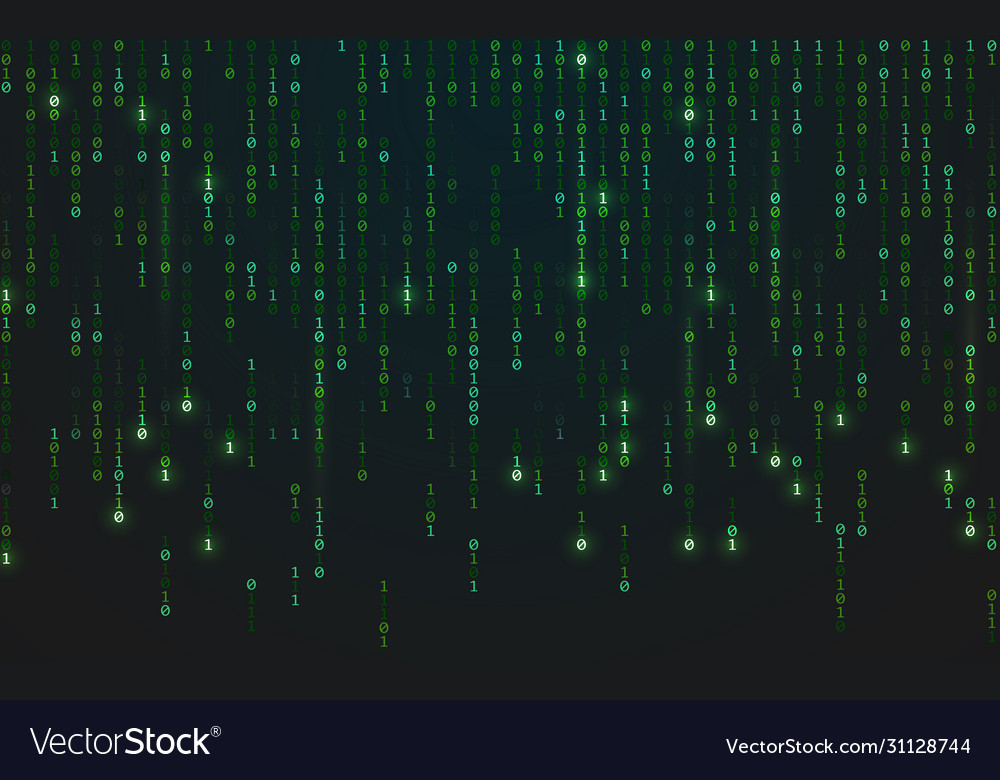
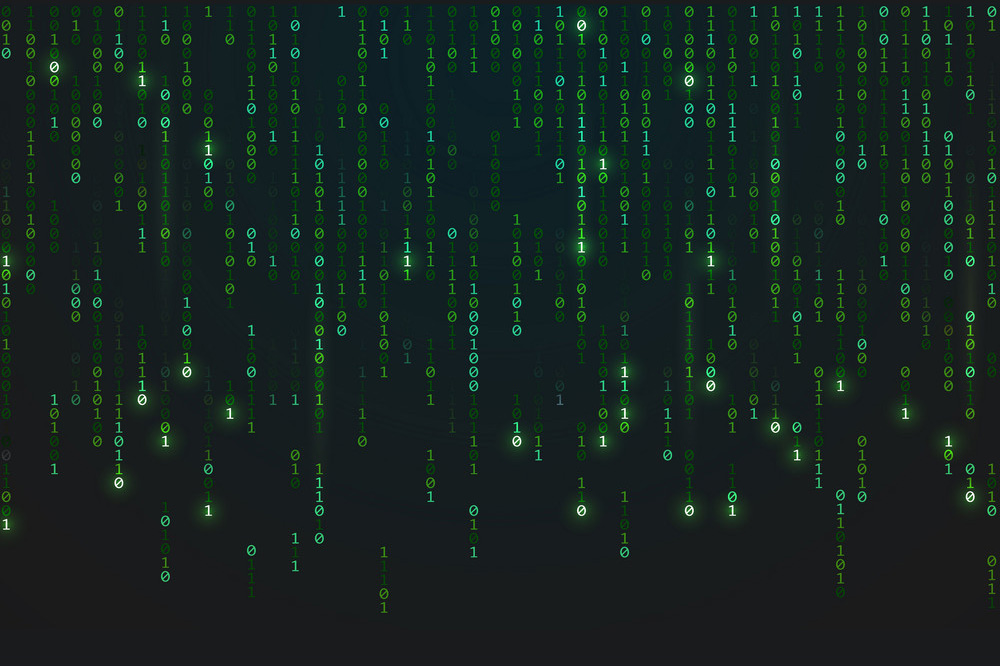
added background image to portfolio

diff --git a/src/components/About/index.js b/src/components/About/index.js
@@ -1,46 +1,48 @@
 import React from 'react';
+import '../../assets/css/About.css';
 import 'bootstrap/dist/css/bootstrap.min.css';
 
 function About() {
   return (
-    <section className='container'>
-      <h2 className='top-title'>About Me</h2>
+    <section className="container">
+      <h2 className="top-title">About Me</h2>
       <hr></hr>
-      <div>
+
+      <figure>
         <img
-          className='mb-5'
-          src='../../assets/images/portfolioImages/professional-picture.png'
-          alt='Professional Headshot'
-          width='150'
-          height='70'></img>
-        <h3 className='about-intro'>Hello, I'm Nicholas Nolen</h3>
-        <p>
-          I am a Full Stack Web Developer leveraging a business background to
-          build sites oriented towards mobile responsiveness.
-        </p>
-        <p>
-          {' '}
-          I earned a certificate in Full-Stack Web Development from the
-          University of Texas at Austin’s Web Development Boot Camp with newly
-          developed skills in HTML, CSS, JavaScript, and React.js.
-        </p>
-        <p>
-          I am known for using time management, attention to detail and strong
-          written and verbal communication to complete even the most complex of
-          tasks.
-        </p>
-        <p>
-          I applied aspects of front-end development in a recent project. I
-          worked on a team of five to develop an application that allows a
-          travel enthusiast to create an account to log past, upcoming, and
-          bucket-list trips.
-        </p>
-        <p>
-          I enjoy working with a fast-paced, quality-driven team to provide
-          creative solutions to complex problems and exceed project
-          expectations.
-        </p>
-      </div>
+          className="mb-5"
+          src="../../assets/images/portfolioImages/professional-picture.png"
+          alt="Professional Headshot"
+          width="150"
+          height="70"></img>
+      </figure>
+
+      <h3 className="about-intro">Hello, I'm Nicholas Nolen</h3>
+      <p>
+        I am a Full Stack Web Developer leveraging a business background to
+        build sites oriented towards mobile responsiveness.
+      </p>
+      <p>
+        {' '}
+        I earned a certificate in Full-Stack Web Development from the University
+        of Texas at Austin’s Web Development Boot Camp with newly developed
+        skills in HTML, CSS, JavaScript, and React.js.
+      </p>
+      <p>
+        I am known for using time management, attention to detail and strong
+        written and verbal communication to complete even the most complex of
+        tasks.
+      </p>
+      <p>
+        I applied aspects of front-end development in a recent project. I worked
+        on a team of five to develop an application that allows a travel
+        enthusiast to create an account to log past, upcoming, and bucket-list
+        trips.
+      </p>
+      <p>
+        I enjoy working with a fast-paced, quality-driven team to provide
+        creative solutions to complex problems and exceed project expectations.
+      </p>
     </section>
   );
 }

diff --git a/src/components/Header/index.js b/src/components/Header/index.js
@@ -1,5 +1,6 @@
 import React, { useState } from 'react';
-import { Routes, Route, HashRouter } from 'react-router-dom';
+import { Route, Redirect, HashRouter } from 'react-router-dom';
+
 import Project from '../Portfolio';
 import About from '../About';
 import Navigation from '../Navigation';
@@ -42,13 +43,11 @@ function Header() {
         </nav>
 
         <div>
-          <Routes>
-            <Route exact path='/' element={<About />} />
-            <Route path='/about' element={<About />}></Route>
-            <Route path='/project' element={<Project />}></Route>
-            <Route path='/contact' element={<Contact />}></Route>
-            <Route path='/resume' element={<Resume />}></Route>
-          </Routes>
+          <Route exact path="/" render={() => <Redirect to="/about" />} />
+          <Route path="/about" element={<About />}></Route>
+          <Route path="/project" element={<Project />}></Route>
+          <Route path="/contact" element={<Contact />}></Route>
+          <Route path="/resume" element={<Resume />}></Route>
         </div>
       </HashRouter>
       <div>

diff --git a/src/assets/css/About.css b/src/assets/css/About.css
@@ -69,17 +69,10 @@ code {
   color: #61dafb;
 }
 
-a {
-  text-decoration: none;
+.hero {
+  background: linear-gradient(rgba(0, 0, 0, 0.5), rgba(0, 0, 0, 0.5)), url(../images/portfolioImages/bg-img.jpg);
+  background-size: cover;
+  background-position: center;
 }
 
-.navLink {
-  color: #ffffff;
-  text-decoration: none;
-}
-
-.navActive {
-  color: #f3a847;
-}
-
-/*# sourceMappingURL=Navigation.css.map */
+/*# sourceMappingURL=About.css.map */

diff --git a/src/assets/css/App.css b/src/assets/css/App.css
@@ -1,7 +1,11 @@
 /* PRIMARY COLORS */
 /* BACKGROUND COLORS */
+/* IMAGE FOLDER PATH */
+/* FADE IMAGE */
 /* PRIMARY COLORS */
 /* BACKGROUND COLORS */
+/* IMAGE FOLDER PATH */
+/* FADE IMAGE */
 /* Universal Selectors */
 * {
   margin: 0;

diff --git a/src/assets/sass/variables.sass b/src/assets/sass/variables.sass
@@ -9,3 +9,9 @@ $orange: #f3a847
 // App.sass
 $blue-gray: #282c34
 
+/* IMAGE FOLDER PATH */
+$portfolioImagePath: "../images/portfolioImages"
+
+/* FADE IMAGE */
+$fadeImage: linear-gradient(rgba(0, 0, 0, 0.5), rgba(0, 0, 0, 0.5)),
+

diff --git a/src/assets/sass/About.sass b/src/assets/sass/About.sass
@@ -1,0 +1,8 @@
+@import './variables'
+@import './index'
+@import './App'
+
+.hero 
+  background: $fadeImage, url(#{$portfolioImagePath}/bg-img.jpg)
+  background-size: cover
+  background-position: center

diff --git a/src/App.js b/src/App.js
@@ -7,7 +7,7 @@ import 'bootstrap/dist/css/bootstrap.min.css';
 
 function App() {
   return (
-    <div>
+    <div className="hero">
       <Header />
       <Footer />
     </div>

diff --git a/src/assets/sass/Navigation.sass b/src/assets/sass/Navigation.sass
@@ -1,6 +1,6 @@
 @import './variables'
 @import './index'
-@import '../../../node_modules/bootstrap/scss/bootstrap'
+@import './App'
 
 a
   text-decoration: none 

diff --git a/src/assets/css/index.css b/src/assets/css/index.css
@@ -1,5 +1,7 @@
 /* PRIMARY COLORS */
 /* BACKGROUND COLORS */
+/* IMAGE FOLDER PATH */
+/* FADE IMAGE */
 /* Universal Selectors */
 * {
   margin: 0;

diff --git a/src/assets/css/variables.css b/src/assets/css/variables.css
@@ -1,4 +1,6 @@
 /* PRIMARY COLORS */
 /* BACKGROUND COLORS */
+/* IMAGE FOLDER PATH */
+/* FADE IMAGE */
 
 /*# sourceMappingURL=variables.css.map */
